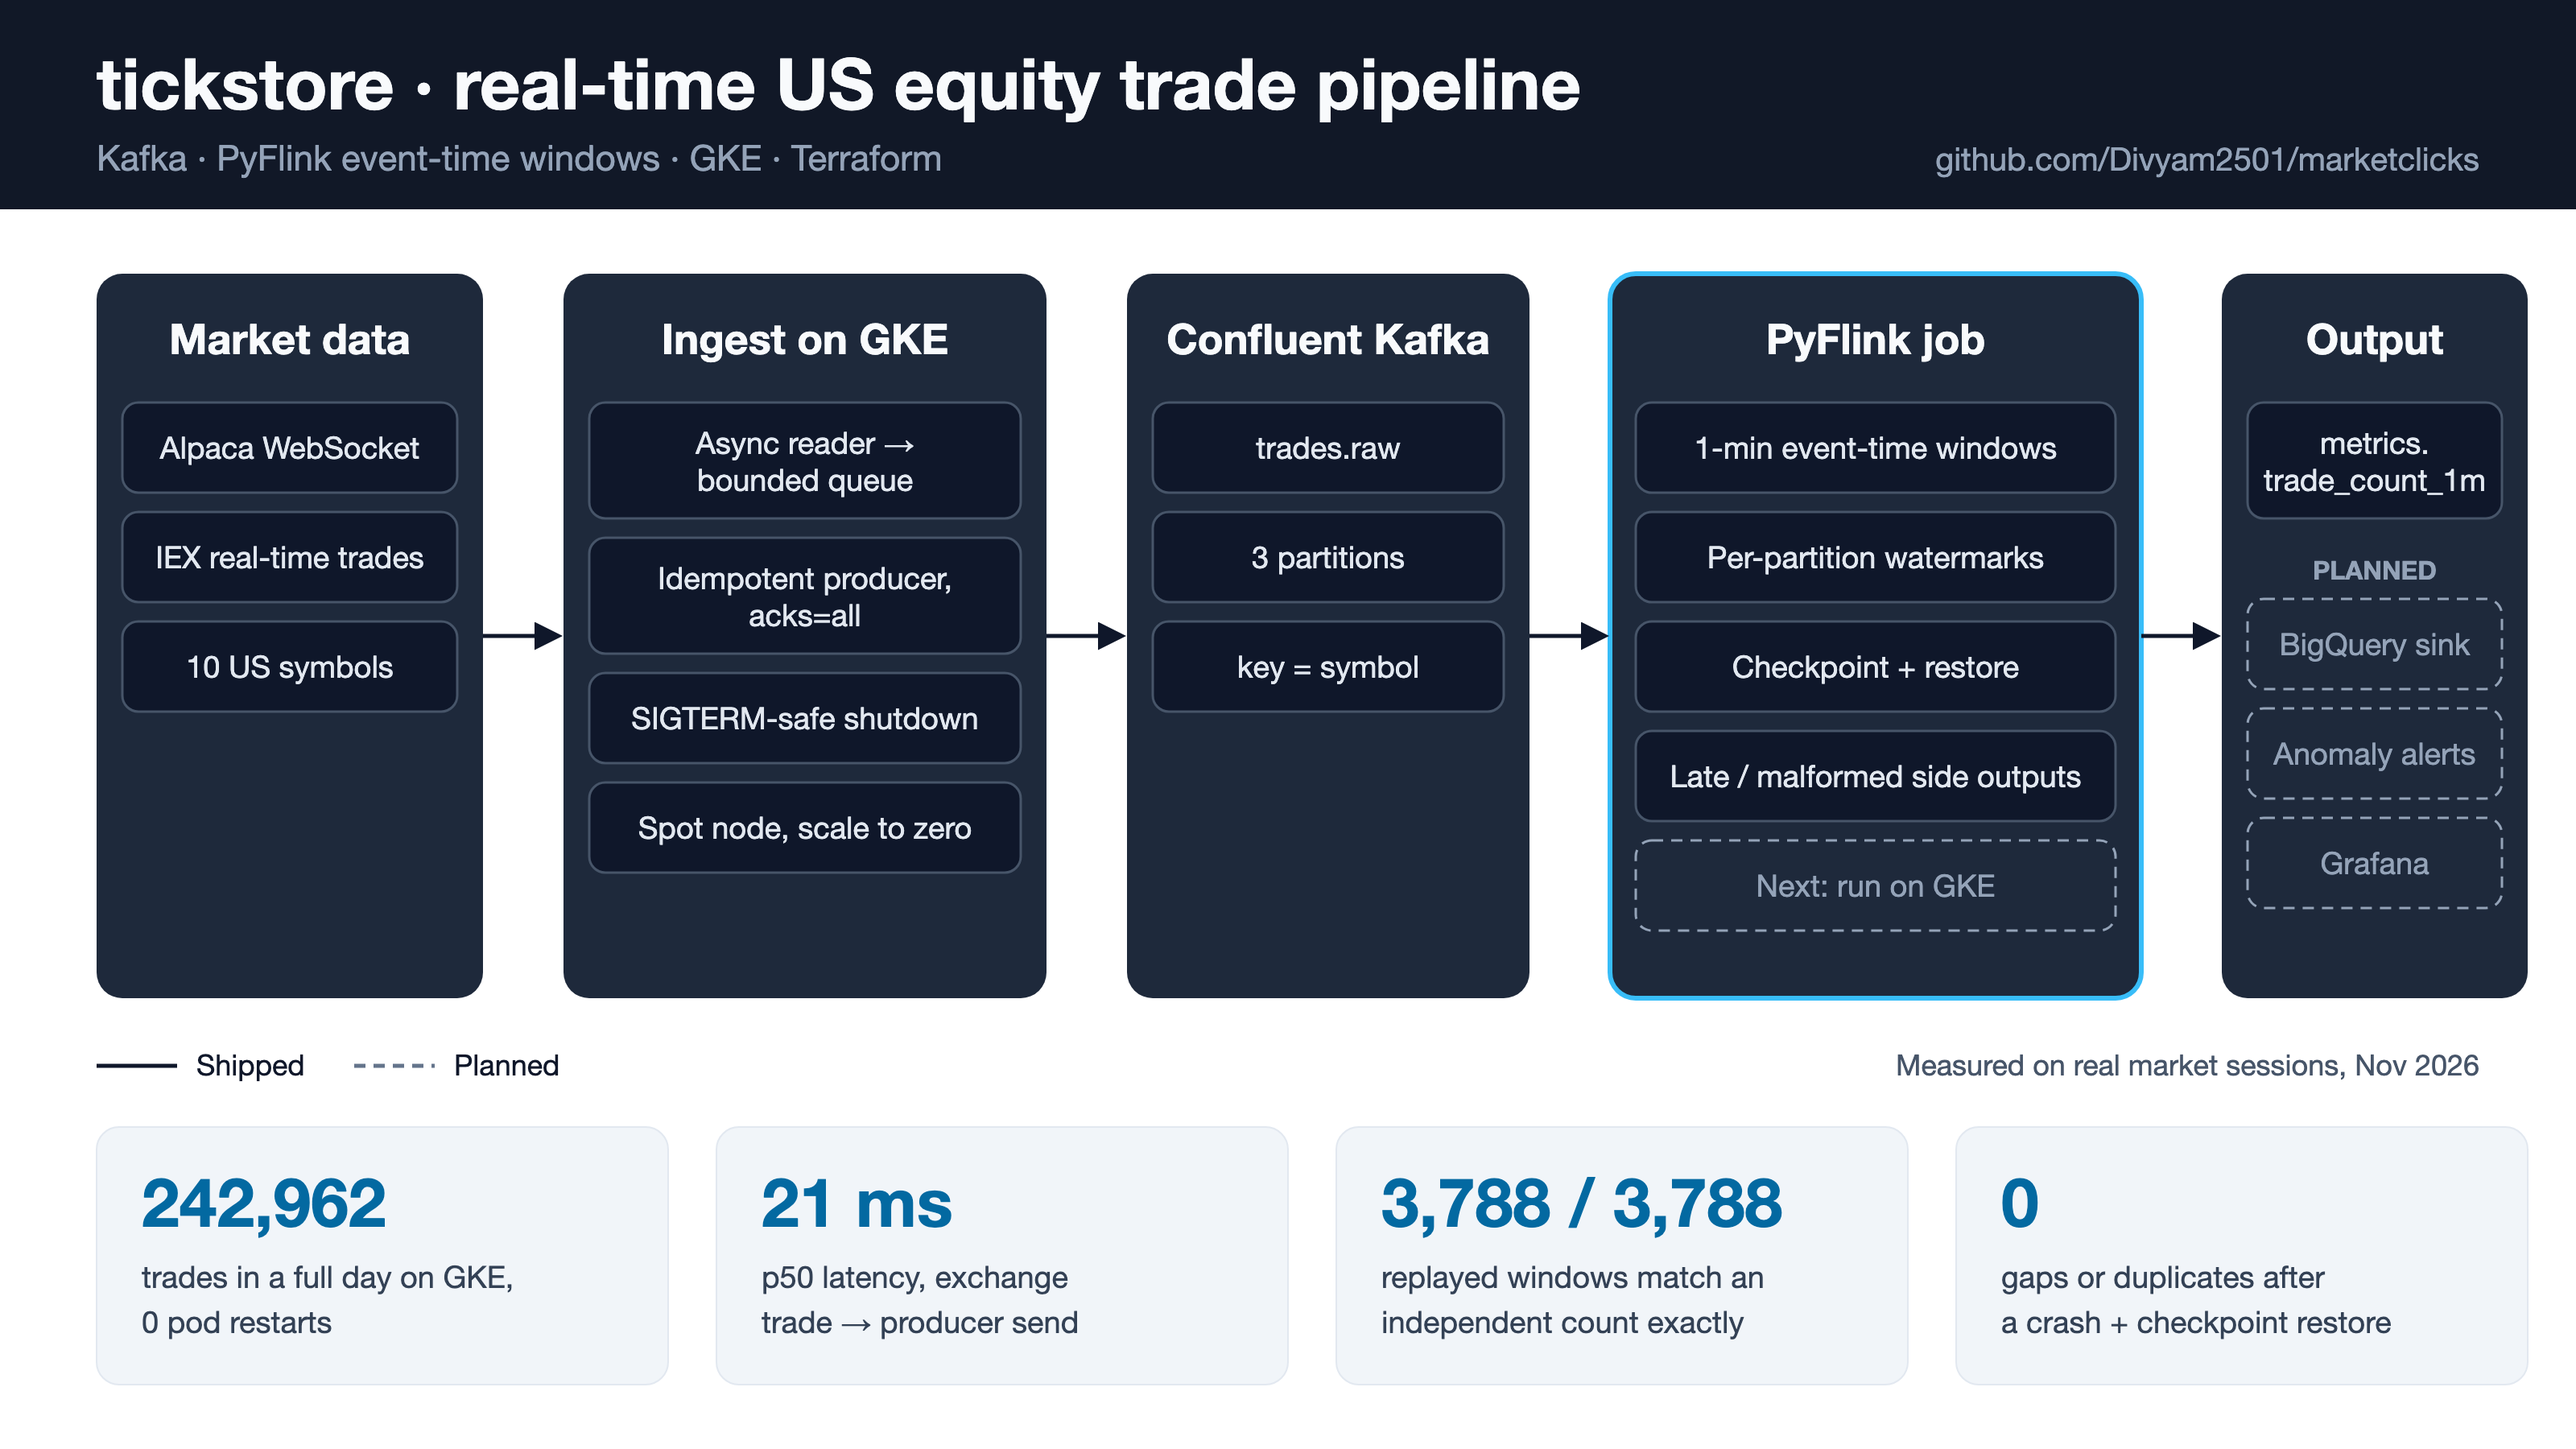
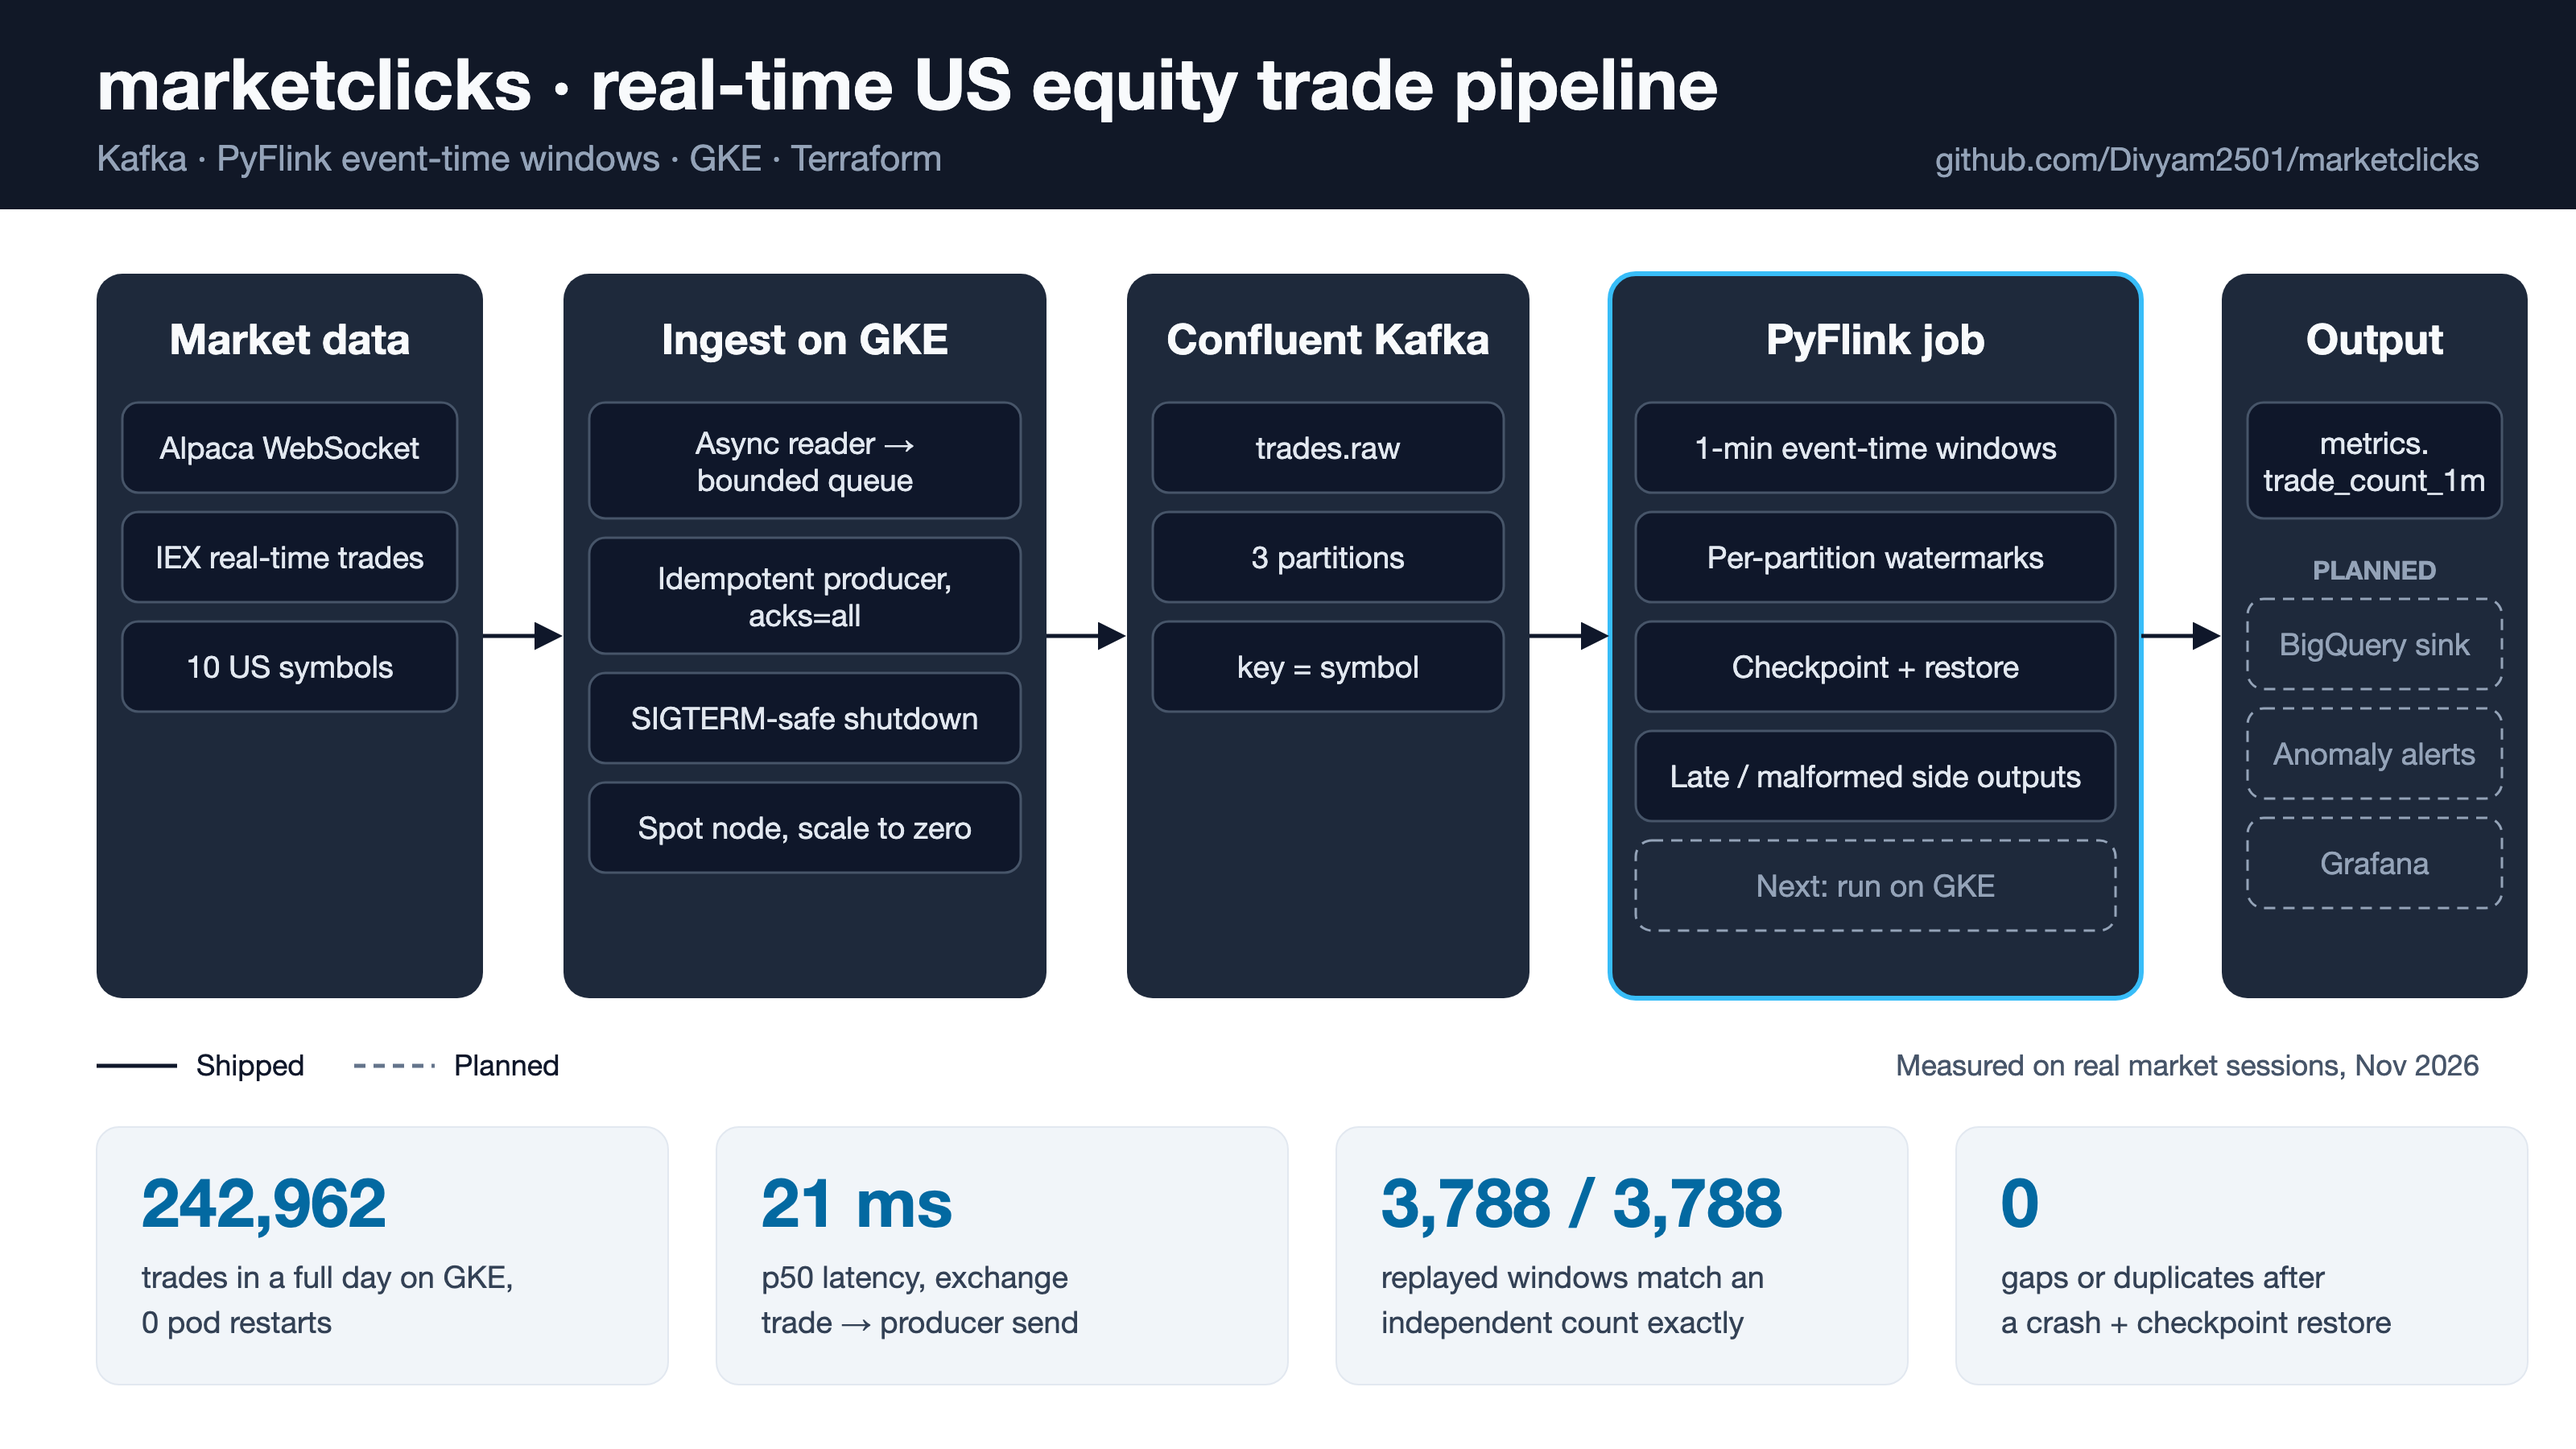
README image: title marketclicks

Changed region(s): [[0.0312, 0.0311, 0.6562, 0.0933]]

diff --git a/README.md b/README.md
@@ -8,7 +8,7 @@ and replay-based validation.
 
 ![CI](https://github.com/Divyam2501/marketclicks/actions/workflows/ci.yml/badge.svg)
 
-![tickstore architecture: Alpaca WebSocket to an ingest service on GKE, Confluent Kafka, a PyFlink event-time job and a metrics topic, with measured results](docs/images/architecture.png)
+![marketclicks architecture: Alpaca WebSocket to an ingest service on GKE, Confluent Kafka, a PyFlink event-time job and a metrics topic, with measured results](docs/images/architecture.png)
 
 ## Architecture
 
